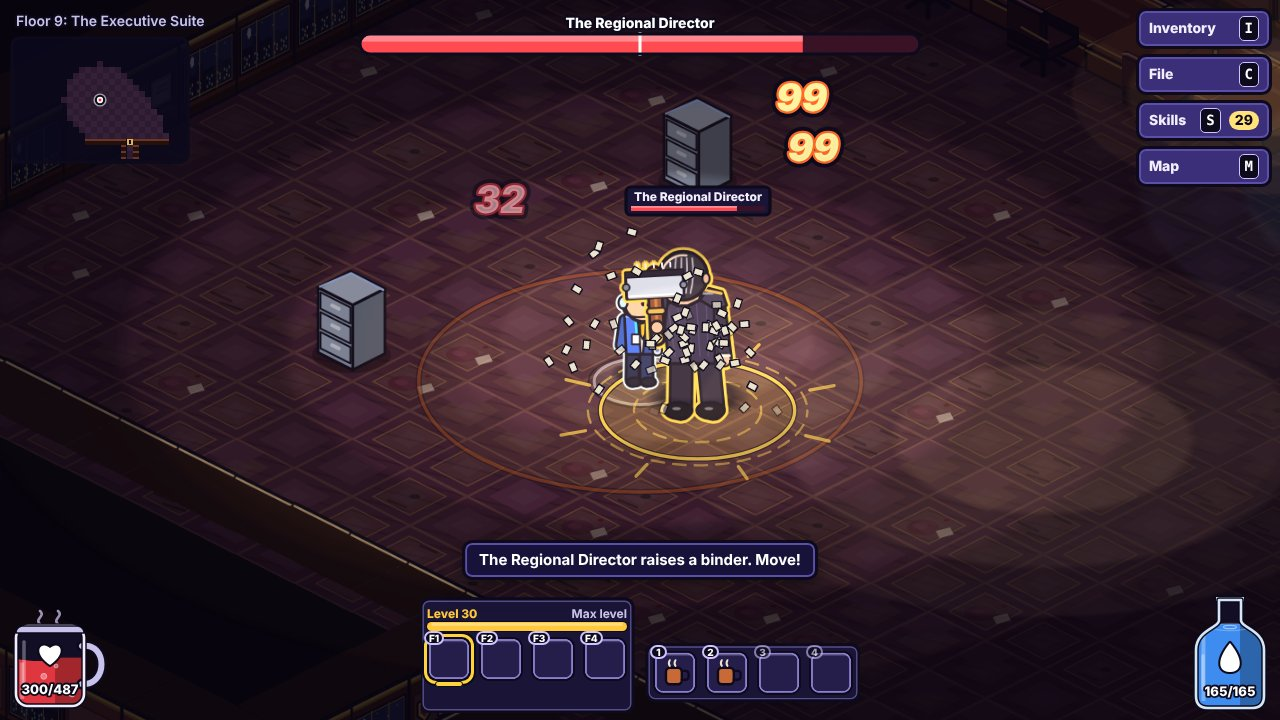
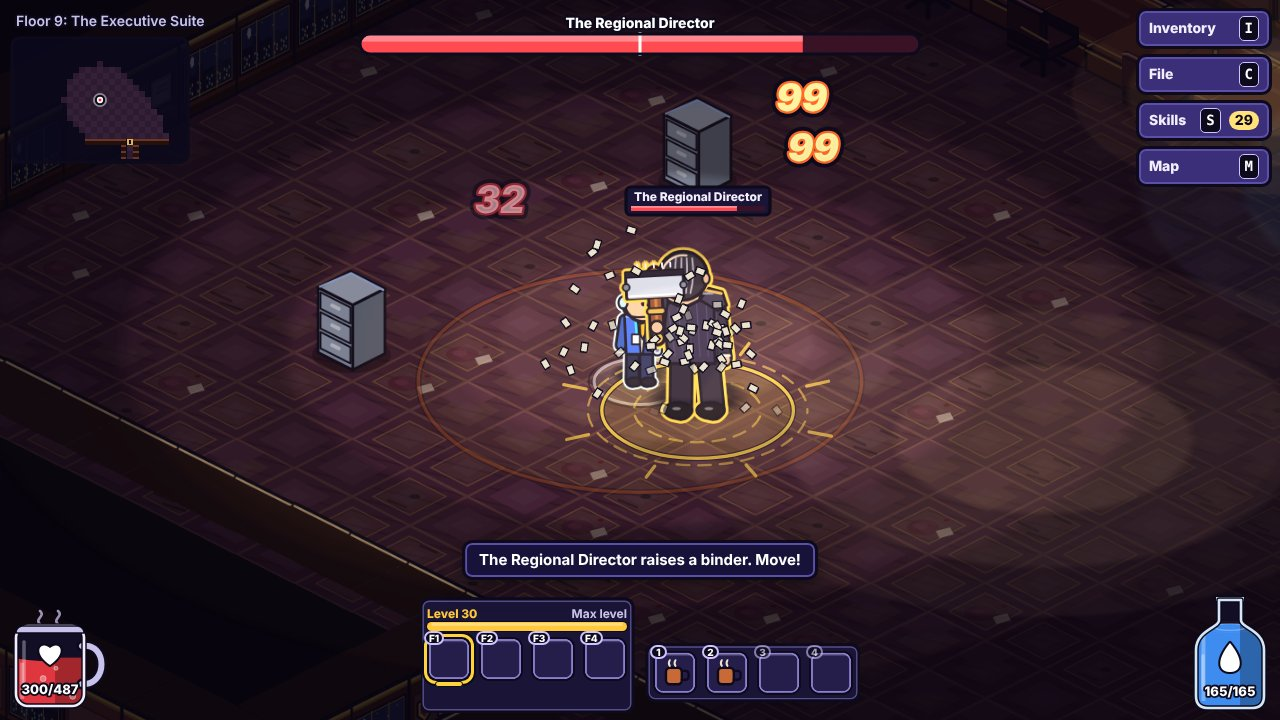
office-crawler: WIP from interrupted FINAL-FIX (green, 427 tests); learning L-15
Claude-Session: https://claude.ai/code/session_015ZMPDA2f9SmuN7Nc91jqdv

diff --git a/src/game.js b/src/game.js
@@ -33,7 +33,8 @@ export function createGame({ canvas, atlas, style, bus, testMode, realtime, seed
     options: defaultOptions(), optSnap: null, titleNotice: null, capturing: false,
     // UI state that is not game state: which drawers are open (left: character | skills | npc), vendor tab, hover tooltip, toast
     ui: { left: null, inventory: false, front: "inventory", vendorTab: "buy", tooltip: null, toast: null, map: false, options: null, story: null },
-    storyOn: !!story, inset: 0, defaultStart: "town",
+    // the real game (story on) starts armed; test fixtures keep the unarmed core default
+    storyOn: !!story, wearStartKit: !!story, inset: 0, defaultStart: "town",
   };
   const syncUi = () => { // the NPC window follows the core dialog; the drawers go away with the run
     const u = game.ui;
@@ -79,21 +80,28 @@ export function createGame({ canvas, atlas, style, bus, testMode, realtime, seed
     if (game.core.paused) return "pause";
     return null;
   };
-  let storyBossSeen = false;
-  const resetUi = () => { Object.assign(game.ui, { left: null, inventory: false, front: "inventory", vendorTab: "buy", tooltip: null, toast: null, map: false, options: null, story: null }); game.inset = 0; storyBossSeen = false; game.heldOrigin = null; };
+  let storyBossSeen = false, pointsHintSeen = false;
+  /** One-time prompt per run when attribute or skill points are waiting to be spent. */
+  const pointsHint = () => {
+    const p = game.core?.player;
+    if (!game.storyOn || pointsHintSeen || !p || !(p.attrPoints > 0 || p.skillPoints > 0)) return;
+    pointsHintSeen = true; game.toast(T.pointsHint);
+  };
+  bus.on("levelup", () => pointsHint());
+  const resetUi = () => { Object.assign(game.ui, { left: null, inventory: false, front: "inventory", vendorTab: "buy", tooltip: null, toast: null, map: false, options: null, story: null }); game.inset = 0; storyBossSeen = false; pointsHintSeen = false; game.heldOrigin = null; };
   const resetRender = () => { game.run.kills = 0; game.prev.clear(); rs.facing.clear(); fx.reset(); game.acc = 0; game.hover = null; game.focus = null; };
   game.setBackdrop = () => { game.backdrop = newGame(game.titleSeed); resetRender(); };
   /** Start a run. opts.start: "town" (default: the Lobby, R-040) or "floor" (fixtures and tests that want floor 1). */
   game.newGame = (s = game.titleSeed, opts = {}) => {
     game.titleSeed = Number(s) >>> 0;
-    game.core = newGame(game.titleSeed, { start: opts.start ?? game.defaultStart });
+    game.core = newGame(game.titleSeed, { start: opts.start ?? game.defaultStart, wearStartKit: game.wearStartKit });
     resetUi(); resetRender();
     if (game.storyOn) game.ui.story = "start"; // R-104: the start text, dismissed by click or key
     emitChange();
     return game.core;
   };
   /** Swap in a state built by the save package (Continue). */
-  game.loadState = (state) => { game.core = state; resetUi(); resetRender(); emitChange(); return state; };
+  game.loadState = (state) => { game.core = state; resetUi(); resetRender(); emitChange(); pointsHint(); return state; };
   game.dismissStory = () => { if (!game.ui.story) return { ok: true }; game.ui.story = null; bus.emit({ type: "ui:close" }); emitChange(); return { ok: true }; };
   bus.on("floorEnter", (ev) => { // R-104: the boss text, once per run, the first time the Executive Suite is entered
     if (game.storyOn && game.core && ev.depth === config.bossDepth && !game.core.bossDefeated && !storyBossSeen) { storyBossSeen = true; game.ui.story = "boss"; emitChange(); }

diff --git a/test/s3-final.test.js b/test/s3-final.test.js
@@ -8,6 +8,7 @@ import { BACKUPS } from "../src/save/storage.js";
 import { canonical } from "../src/core/hash.js";
 import { createBus } from "../src/bus.js";
 import { createAudio } from "../src/audio/index.js";
+import { palette } from "../src/render/styles/vector/palette.js";
 import { createFx, FLASH_HALF_MS, lowHpPeriod } from "../src/render/fx.js";
 
 const rich = () => {
@@ -189,4 +190,34 @@ test("AC-NFR-A04-1 no stylesheet text is smaller than 14 px", () => {
   assert.deepEqual(small.map((m) => m[0]), []);
   const calcSmall = [...css.matchAll(/calc\((\d+(?:\.\d+)?)px \* var\(--ts/g)].filter((m) => Number(m[1]) < 14);
   assert.deepEqual(calcSmall.map((m) => m[0]), []);
+});
+
+test("regression: impacts, pillars and slashes drawn before their birth time (stepped ticks) never use a negative radius", () => {
+  const bad = [];
+  const g = new Proxy({}, { get: (_, k) => {
+    if (k === "canvas") return {};
+    return (...a) => {
+      if (k === "arc" && a[2] < 0) bad.push(`arc ${a[2]}`);
+      if (k === "ellipse" && (a[2] < 0 || a[3] < 0)) bad.push(`ellipse ${a[2]},${a[3]}`);
+      if (k === "createLinearGradient") return { addColorStop() {} };
+      return undefined;
+    };
+  }, set: () => true });
+  const fx = createFx({ palette });
+  const cam = { w: 800, h: 600, z: 2, ox: 0, oy: 0 };
+  for (const kind of ["toner", "stapler", "slide"]) for (const mode of ["hit", "wall", "range", "muzzle"]) {
+    const im = { kind, mode, x: 5, y: 5, z: 12, born: 1000, life: 380 };
+    for (const now of [-5000, 400, 999, 1000, 1190, 1380, 1400]) fx.drawImpact(g, cam, im, now);
+  }
+  fx.drawPillar(g, cam, { x: 5, y: 5, born: 1000, life: 900 }, 100);
+  assert.deepEqual(bad, []);
+});
+
+test("wearStartKit: the rapier is worn and Strike is on F1; the default core start stays unarmed (golden hash unchanged)", () => {
+  const a = newGame(3, { start: "town", wearStartKit: true });
+  assert.equal(a.equipment.weapon?.base, config.startKit.weapon);
+  assert.equal(a.player.skillBar.hotkeys[0], "strike");
+  assert.ok(a.player.damage.max > newGame(3, { start: "town" }).player.damage.max);
+  assert.equal(newGame(3, { start: "town" }).equipment.weapon, null);
+  assert.equal(deserialize(serialize(a)).ok, true, "such a game saves and loads");
 });

diff --git a/src/core/state.js b/src/core/state.js
@@ -12,6 +12,7 @@ import { newEquipment } from "./items/equipment.js";
 import { newBelt } from "./items/belt.js";
 import { deriveStats } from "./items/derive.js";
 import { makeItem } from "./items/roll.js";
+import { equipItem } from "./items/equipment.js";
 import { initFloorMap } from "./systems/explore.js";
 
 const STREAMS = ["world", "combat", "ai", "loot"];
@@ -117,14 +118,19 @@ export function newGame(seedOrOpts, opts = {}) {
   state.blockedSpawns = [];
   floor.spawns.forEach((s, i) => { if (!spawnMonster(state, s.type, s.tile, s.packId, { ...s, spawn: i })) state.blockedSpawns.push(i); });
   initFloorMap(state);
-  giveStartKit(state);
+  giveStartKit(state, !!opts.wearStartKit);
   return state;
 }
 
-// Starting kit (QF-06-8): one weapon in the inventory (not worn: the hero starts unarmed) and health potions on the belt.
-function giveStartKit(state) {
+// Starting kit (QF-06-8): one weapon in the inventory; the unarmed start is the core default (fixtures, golden hash). The shell asks
+// for `wearStartKit` so a real first run starts with the rapier worn and Strike on F1. and health potions on the belt.
+function giveStartKit(state, wear = false) {
   const kit = config.startKit, mint = () => `i${state.nextItemId++}`;
-  if (kit.weapon) autoplaceStart(state, { ...makeItem(kit.weapon), id: mint() });
+  if (kit.weapon) {
+    const w = { ...makeItem(kit.weapon), id: mint() };
+    autoplaceStart(state, w);
+    if (wear) { equipItem(state, w.id); state.player.skillBar.hotkeys[0] = "strike"; } // first-run feel: armed, Strike on F1
+  }
   for (let i = 0; i < kit.healthPotions && i < state.belt.length; i++) state.belt[i] = { ...makeItem(kit.healthPotion), id: mint() };
 }
 const autoplaceStart = (state, item) => { item.x = 0; item.y = 0; state.inventory.items.push(item); };

diff --git a/src/render/fx.js b/src/render/fx.js
@@ -315,7 +315,7 @@ export function createFx(style) {
       }
       g.globalAlpha = 1;
       for (let i = 0; i < fx.slashes.length; i++) {
-        const sl = fx.slashes[i], e = atlas.get(keys.slash(playerDir)), k = (now - sl.born) / 170;
+        const sl = fx.slashes[i], e = atlas.get(keys.slash(playerDir)), k = Math.min(1, Math.max(0, (now - sl.born) / 170));
         project(cam, sl.x, sl.y, pos);
         if (!sl.skill) {
           g.globalAlpha = 1 - k;
@@ -525,7 +525,7 @@ export function createFx(style) {
 
     /** Muzzle flashes and impact splats for projectiles (toner splat, stapler sparks; slide impact shows as paper particles). */
     drawImpact(g, cam, im, now) {
-      const z = cam.z, k = (now - im.born) / im.life;
+      const z = cam.z, k = Math.min(1, Math.max(0, (now - im.born) / im.life)); // stepped ticks can draw an effect before its birth time
       project(cam, im.x, im.y, pos);
       const cx = pos.x, cy = pos.y - im.z * z;
       g.save(); g.globalAlpha = Math.max(0, 1 - k * k); g.lineJoin = "round"; g.lineCap = "round";
@@ -555,7 +555,7 @@ export function createFx(style) {
 
     /** Level-up pillar of light with rising edges. */
     drawPillar(g, cam, pl, now) {
-      const z = cam.z, k = (now - pl.born) / pl.life;
+      const z = cam.z, k = Math.min(1, Math.max(0, (now - pl.born) / pl.life));
       project(cam, pl.x, pl.y, pos);
       const w = (26 + 10 * Math.sin(k * 6)) * z * (1 - k * 0.5), h = 190 * z * Math.min(1, k * 4);
       const grad = g.createLinearGradient(0, pos.y, 0, pos.y - h);

diff --git a/src/ui/text.js b/src/ui/text.js
@@ -57,6 +57,7 @@ export const T = {
   mapTitle: "Floor map", openMap: "Map", closeMap: "Close map (M)", mapLegend: "You, stairs, people, exit door", mapUnexplored: "Nothing explored yet.",
   msgPortalOpen: "Emergency Exit: a door opens. Step through to return here.", msgPortalUse: "You step through the Emergency Exit.", msgPortalBack: "The Emergency Exit leads back to your floor.", msgExitUse: "Emergency Exit used.", useItem: "Use", exitItemHint: "Right-click to use, or press its belt key.", exitEffect: "Door to the Lobby; walk back through it",
   // S3 title, save, options, victory, boss
+  pointsHint: "You have points to spend: C for attributes, S for skills.",
   storyContinue: "Get to work", storyKicker: "Story", confirmImportTitle: "Replace your character?", confirmImportText: "Importing replaces the character in this browser. The current one is kept once as a damaged-save backup you can export.",
   continueGame: "Continue", options: "Options", back: "Back", exportSave: "Export save", importSave: "Import save", deleteCharacter: "Delete character", exportCorrupt: "Export damaged save",
   confirmNewTitle: "Start a new game?", confirmNewText: "This replaces your saved character. Export the save first if you want to keep it.", confirmDeleteTitle: "Delete the character?", confirmDeleteText: "The saved character is removed. Your options stay.",

diff --git a/docs/harness-learnings.md b/docs/harness-learnings.md
@@ -19,3 +19,4 @@ Each entry: what happened, what it says about the harness, what was changed (fil
 | L-12 | 2026-10-13 | The orchestrator reported an "XP maths bug" from a screenshot; the reviewer showed the maths was right and the label was ambiguous (total XP next to a within-level %). The orchestrator's own visual spot-checks are useful, but they are hypotheses | Orchestrator observations go to reviewers as "suspects", not as facts. The reviewer confirms or refutes them with code evidence (as happened here) |
 | L-13 | 2026-10-13 | For parallel fix rounds that need new shared data (map, portal), the orchestrator wrote a short data contract (`S2-fix-contract.md`) before launching both agents, so the UI agent could code against fields that didn't exist yet | Add to 04-agents.md "Parallel work packages": shared data contracts are written first, by the orchestrator or the architect |
 | L-14 | 2026-10-13 | Sound: agents can't listen. The OfflineAudioContext measurements (peak, RMS, clipping, spread, CPU) prove a consistent, safe mix but say nothing about taste | For qualities no agent can perceive: (1) measure what is measurable as a gate, (2) keep the alternatives **swappable** behind one interface (here `createSoundKit`) instead of forcing an irreversible pick, (3) put the taste decision on the real customer's list with a 1-minute way to try it (sound-board page) |
+| L-15 | 2026-10-14 | A container restart killed a 40-minute implementer run. Its partial edits survived in the working tree, but its plan and progress did not | Implementers append a short progress line to the work package's notes file after each finished item ("done: B1, crash clamp; next: story"), so a restarted agent can resume from files. The orchestrator commits WIP regularly (the stop hook already pushes for that) |

diff --git a/docs/SESSION-NOTES.md b/docs/SESSION-NOTES.md
@@ -76,3 +76,4 @@ Running log for the orchestrator (main Claude session). Update after every step.
 - [iter 3] UI-S3 done: audio wired, save UI (continue/new/export/import/delete), options (volumes, kit, remap 12 actions, hc, reduced fx/motion, text size), victory screen, boss bar. ORCHESTRATOR VERIFIED: npm test 415/415, npm run e2e all 10 scripts (410 checks) OK as one command. A prebuilt game is at office-crawler/play/index.html. Next: final S3 code review + final visual review + proxy final acceptance (parallel), then the overnight summary.
 - [iter 3] Final code review: changes needed (B1 quit-to-title not saving, B2 story frame R-104 missing, B3 perf). Orchestrator re-ran the bench at lower load: 43.6 fps (PASS, thin margin; earlier ~49). FINAL-FIX launched for the code findings; final visual review still running.
 - [iter 3] Final visual review: 31/40 iterate (S1 30, S2 29). CRASH found (drawImpact negative radius under stepped ticks) + first-run issues → sent to FINAL-FIX. Remaining for the POLISH agent after FINAL-FIX: hc + text 1.5 bugs (white-on-white menu buttons, File labels run together, tooltip overflow), basement visibility/ghost monsters, loot labels piling on the hero, title-screen art + goal line.
+- [iter 3] CONTAINER RESTART killed FINAL-FIX mid-run. The partial changes in the working tree were green (427 tests) and committed as WIP; FINAL-FIX relaunched to resume (inspect the diff first). Learning L-15: long agent runs need resumable checkpoints (WIP commits + a 'done so far' note).
